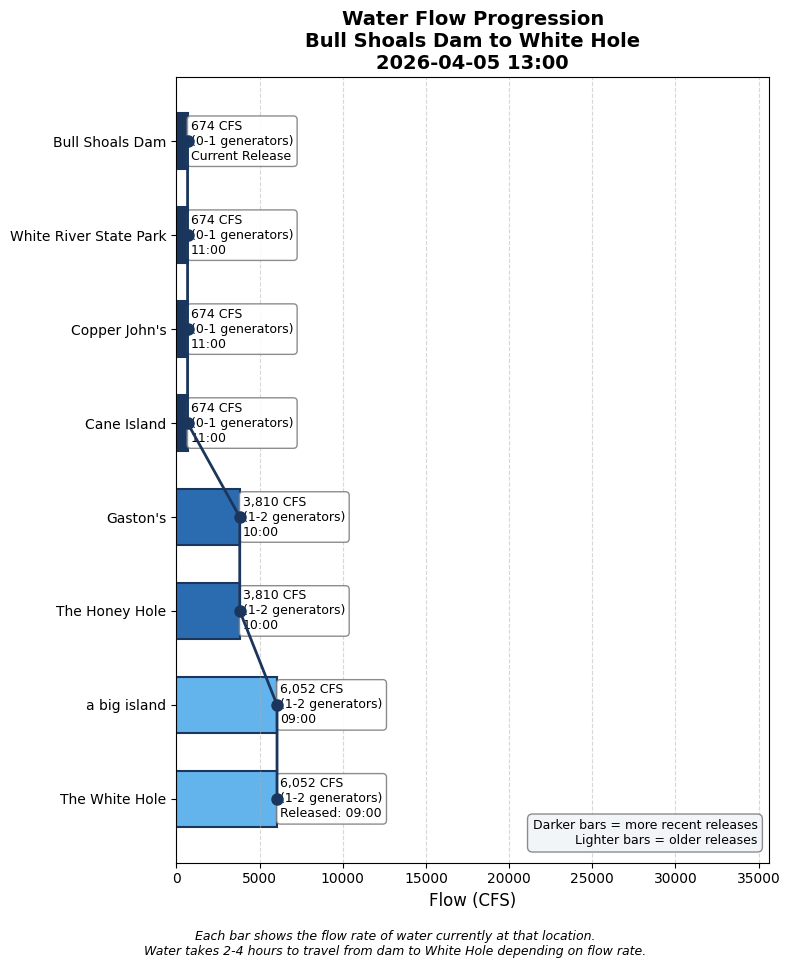
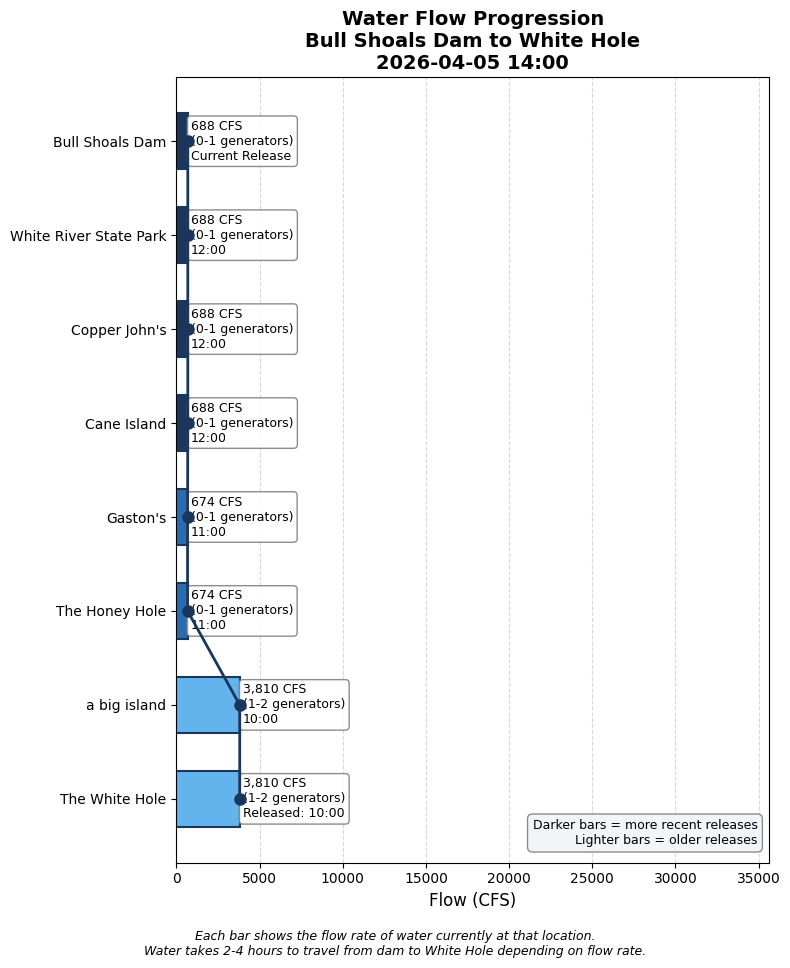
Update water conditions 2026-04-05 14:00

diff --git a/white_hole_conditions.html b/white_hole_conditions.html
@@ -3,7 +3,7 @@
 <head>
     <meta charset="UTF-8">
     <meta name="viewport" content="width=device-width, initial-scale=1.0">
-    <title>White Hole Conditions - 2026-04-05 13:00</title>
+    <title>White Hole Conditions - 2026-04-05 14:00</title>
     <style>
         body {
             font-family: -apple-system, BlinkMacSystemFont, 'Segoe UI', Roboto, sans-serif;
@@ -23,7 +23,7 @@
             margin-bottom: 20px;
         }
         .headline-banner {
-            background-color: #1a365d;
+            background-color: #2b6cb0;
             color: white;
             border-radius: 12px;
             padding: 25px;
@@ -73,8 +73,8 @@
             font-weight: 500;
         }
         .pill.wading {
-            background-color: #fee2e2;
-            color: #991b1b;
+            background-color: #fef3c7;
+            color: #92400e;
         }
         .pill.boating {
             background-color: #dbeafe;
@@ -148,21 +148,21 @@
 </head>
 <body>
     <h1>White Hole Current Conditions</h1>
-    <p class="subtitle">Sunday, April 05, 2026 at 01:00 PM</p>
+    <p class="subtitle">Sunday, April 05, 2026 at 02:00 PM</p>
 
     <!-- HEADLINE BANNER -->
     <div class="headline-banner">
-        <div class="main-status">🚫 NO WADING — Water too high for safe wading</div>
+        <div class="main-status">⚠ MARGINAL WADING — Use caution</div>
         <div class="forecast-status">📉 FALLING WATER — Conditions improving</div>
     </div>
 
     <!-- CURRENT CONDITIONS -->
     <div class="current-conditions">
         <h3>Current Conditions at White Hole</h3>
-        <div class="flow-display">6,052 CFS</div>
+        <div class="flow-display">3,810 CFS</div>
         <div class="generator-display">Equivalent to 1-2 generators</div>
         <div class="condition-pills">
-            <span class="pill wading">No Wading</span>
+            <span class="pill wading">Still Wadable</span>
             <span class="pill boating">Ideal Boating</span>
         </div>
         <a href="https://www.youtube.com/channel/UCAXhb9nFnsfu367AthDrgIA/live" target="_blank" class="webcam-link" style="margin-top: 15px;">
@@ -186,26 +186,26 @@
                 <tbody>
                     
                 <tr style="background-color: #ebf8ff;">
-                    <td style="padding: 10px; font-weight: bold;">11:00</td>
-                    <td style="padding: 10px;">674 CFS<br><small style="color: #666;">(0-1 generators)</small></td>
-                    <td style="padding: 10px;"><span style="color: #2b6cb0;">→ Arrives ~14:44 (in 103 min)</span></td>
+                    <td style="padding: 10px; font-weight: bold;">12:00</td>
+                    <td style="padding: 10px;">688 CFS<br><small style="color: #666;">(0-1 generators)</small></td>
+                    <td style="padding: 10px;"><span style="color: #2b6cb0;">→ Arrives ~15:44 (in 103 min)</span></td>
                 </tr>
             
                 <tr style="background-color: #ebf8ff;">
-                    <td style="padding: 10px; font-weight: bold;">10:00</td>
-                    <td style="padding: 10px;">3,810 CFS<br><small style="color: #666;">(1-2 generators)</small></td>
-                    <td style="padding: 10px;"><span style="color: #2b6cb0;">→ Arrives ~13:35 (in 34 min)</span></td>
+                    <td style="padding: 10px; font-weight: bold;">11:00</td>
+                    <td style="padding: 10px;">674 CFS<br><small style="color: #666;">(0-1 generators)</small></td>
+                    <td style="padding: 10px;"><span style="color: #2b6cb0;">→ Arrives ~14:44 (in 43 min)</span></td>
                 </tr>
             
                 <tr style="background-color: #e6fffa;">
-                    <td style="padding: 10px; font-weight: bold;">09:00</td>
-                    <td style="padding: 10px;">6,052 CFS<br><small style="color: #666;">(1-2 generators)</small></td>
+                    <td style="padding: 10px; font-weight: bold;">10:00</td>
+                    <td style="padding: 10px;">3,810 CFS<br><small style="color: #666;">(1-2 generators)</small></td>
                     <td style="padding: 10px;"><span style="color: #319795; font-weight: bold;">← AT WHITE HOLE NOW</span></td>
                 </tr>
             
                 <tr style="">
-                    <td style="padding: 10px; font-weight: bold;">06:00</td>
-                    <td style="padding: 10px;">684 CFS<br><small style="color: #666;">(0-1 generators)</small></td>
+                    <td style="padding: 10px; font-weight: bold;">07:00</td>
+                    <td style="padding: 10px;">2,413 CFS<br><small style="color: #666;">(0-1 generators)</small></td>
                     <td style="padding: 10px;"><span style="color: #718096;">passed</span></td>
                 </tr>
             
@@ -230,9 +230,9 @@
         </summary>
         <div style="padding: 15px;">
             <ul>
-                <li>Latest dam reading: 674 CFS at 2026-04-05 11:00</li>
-                <li>Travel time to White Hole: 3.1 hours at current flow</li>
-                <li>White Hole conditions based on dam reading from: 2026-04-05 09:00</li>
+                <li>Latest dam reading: 688 CFS at 2026-04-05 12:00</li>
+                <li>Travel time to White Hole: 3.6 hours at current flow</li>
+                <li>White Hole conditions based on dam reading from: 2026-04-05 10:00</li>
             </ul>
         </div>
     </details>
@@ -254,6 +254,13 @@
                     </thead>
                     <tbody>
                         
+                <tr style="border-bottom: 1px solid #eee;">
+                    <td style="padding: 8px;">2026-04-05 12:00</td>
+                    <td style="padding: 8px; text-align: right;">688</td>
+                    <td style="padding: 8px; text-align: right;">0.2</td>
+                    <td style="padding: 8px; text-align: right;">3.7</td>
+                </tr>
+                
                 <tr style="border-bottom: 1px solid #eee;">
                     <td style="padding: 8px;">2026-04-05 11:00</td>
                     <td style="padding: 8px; text-align: right;">674</td>
@@ -317,13 +324,6 @@
                     <td style="padding: 8px; text-align: right;">3.7</td>
                 </tr>
                 
-                <tr style="border-bottom: 1px solid #eee;">
-                    <td style="padding: 8px;">2026-04-05 02:00</td>
-                    <td style="padding: 8px; text-align: right;">673</td>
-                    <td style="padding: 8px; text-align: right;">0.2</td>
-                    <td style="padding: 8px; text-align: right;">3.7</td>
-                </tr>
-                
                     </tbody>
                 </table>
             </div>
@@ -331,7 +331,7 @@
         
 
     <div class="timestamp">
-        Data retrieved and processed on 2026-04-05 13:00:08
+        Data retrieved and processed on 2026-04-05 14:00:07
     </div>
 </body>
 </html>
